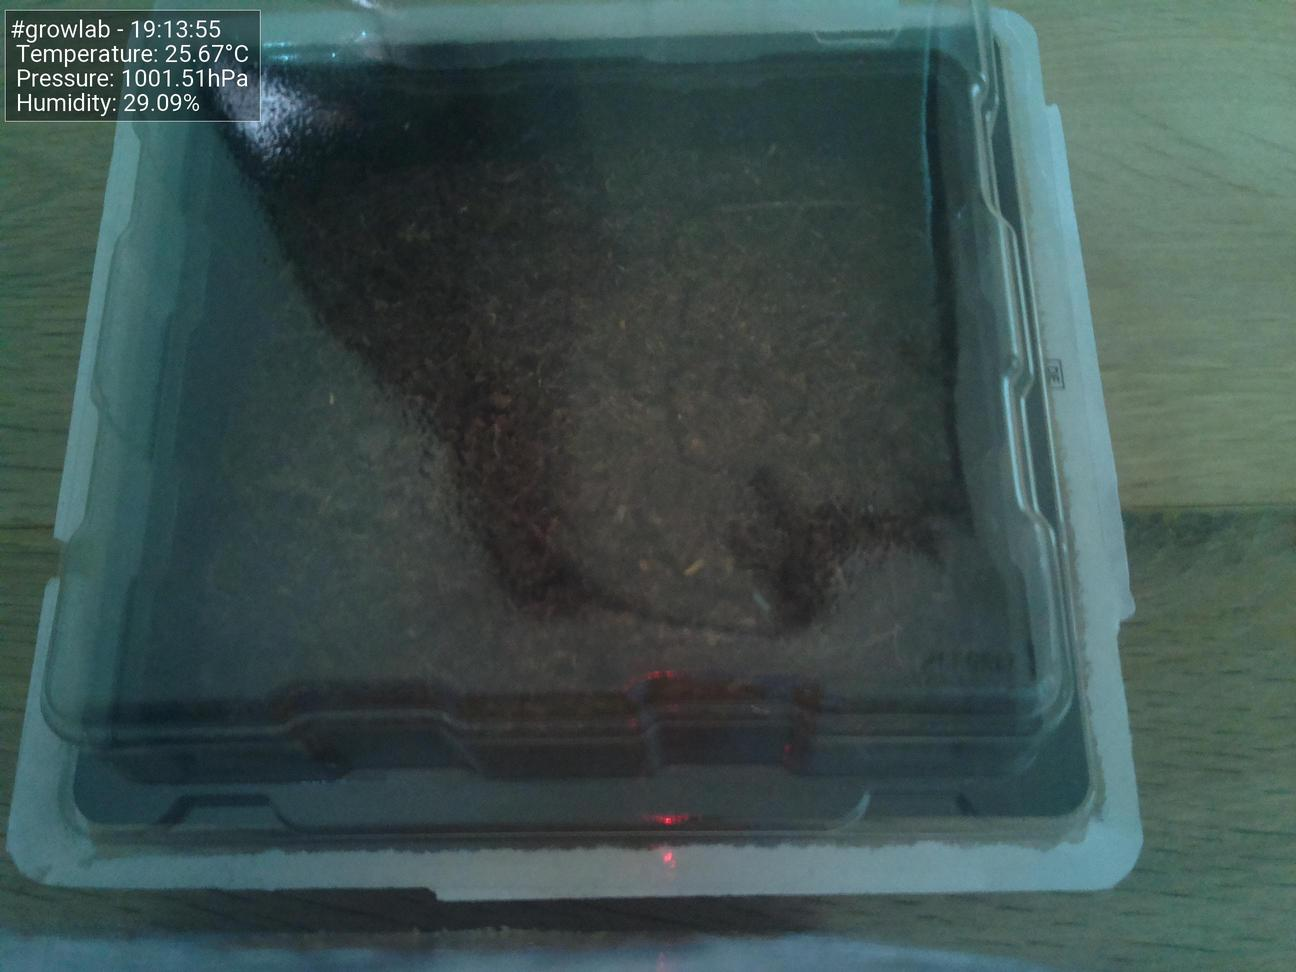
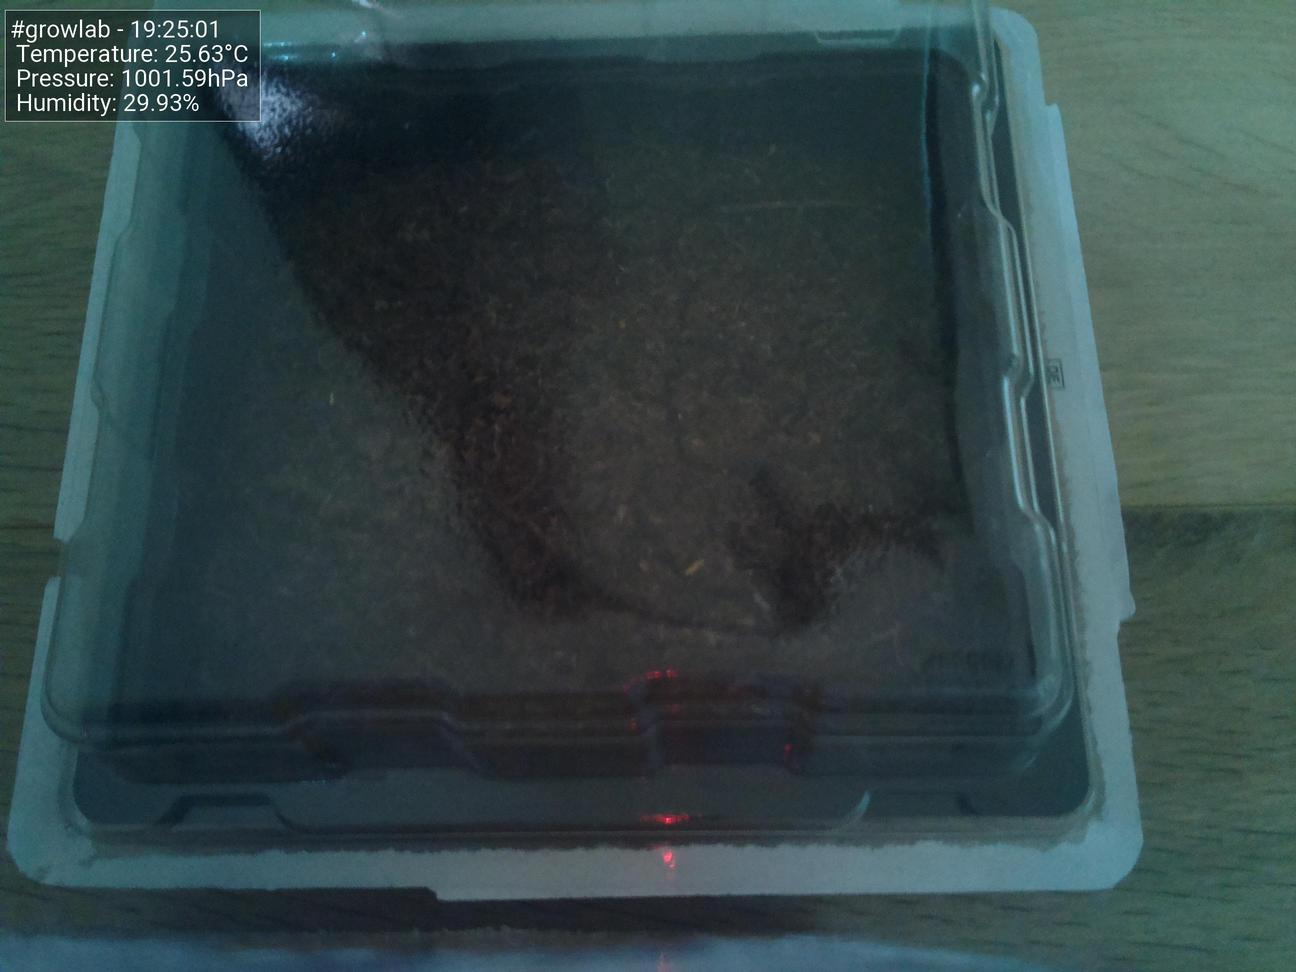
Update images at Tue 25 May 19:25:05 BST 2021

diff --git a/docs/index.html b/docs/index.html
@@ -47,19 +47,19 @@
                         <tbody>
                             <tr>
                                 <td>Time</td>
-                                <td>19:13:55</td>
+                                <td>19:25:01</td>
                             </tr>
                             <tr>
                                 <td>Temperature</td>
-                                <td>25.67°C</td>
+                                <td>25.63°C</td>
                             </tr>
                             <tr>
                                 <td>Humidity</td>
-                                <td>29.09%</td>
+                                <td>29.93%</td>
                             </tr>
                             <tr>
                                 <td>Pressure</td>
-                                <td>1001.51hPa</td>
+                                <td>1001.59hPa</td>
                             </tr>
                         </tbody>
                     </table>
@@ -67,7 +67,7 @@
 
                 <h5>Latest image</h5>
                 <div style="width: 85%;">
-                            <img class="figure-img img-fluid rounded" src="./preview.jpg?uid=1621966439.5745664">
+                            <img class="figure-img img-fluid rounded" src="./preview.jpg?uid=1621967105.3475966">
                 </div>
             </div>
         </div>

diff --git a/html/index.html b/html/index.html
@@ -47,19 +47,19 @@
                         <tbody>
                             <tr>
                                 <td>Time</td>
-                                <td>19:13:55</td>
+                                <td>19:25:01</td>
                             </tr>
                             <tr>
                                 <td>Temperature</td>
-                                <td>25.67°C</td>
+                                <td>25.63°C</td>
                             </tr>
                             <tr>
                                 <td>Humidity</td>
-                                <td>29.09%</td>
+                                <td>29.93%</td>
                             </tr>
                             <tr>
                                 <td>Pressure</td>
-                                <td>1001.51hPa</td>
+                                <td>1001.59hPa</td>
                             </tr>
                         </tbody>
                     </table>
@@ -67,7 +67,7 @@
 
                 <h5>Latest image</h5>
                 <div style="width: 85%;">
-                            <img class="figure-img img-fluid rounded" src="./preview.jpg?uid=1621966439.5745664">
+                            <img class="figure-img img-fluid rounded" src="./preview.jpg?uid=1621967105.3475966">
                 </div>
             </div>
         </div>
